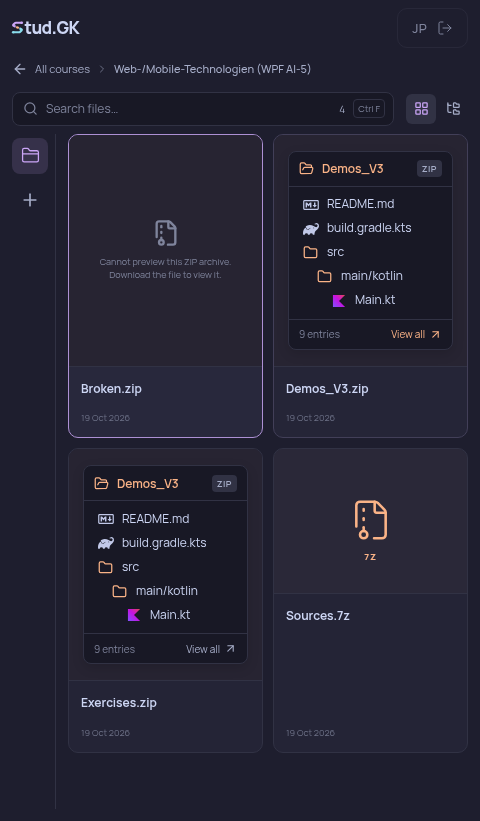
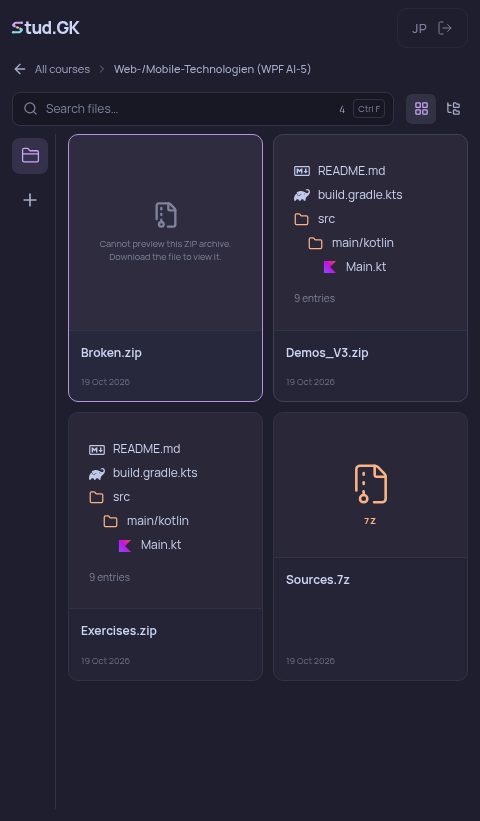
Remove nested panel from archive previews

diff --git a/src/styles.css b/src/styles.css
@@ -1722,43 +1722,17 @@ input::placeholder {
 .file-preview.archive-preview {
   align-items: stretch;
   justify-content: center;
-  padding: 14px;
-  min-height: 232px;
+  gap: 12px;
+  padding: 20px;
+  min-height: 196px;
   overflow: hidden;
-  background: color-mix(in srgb, var(--peach) 4%, var(--base));
 }
-.archive-preview-window {
-  width: 100%;
-  max-width: 360px;
-  margin: auto;
-  overflow: hidden;
-  border: 1px solid var(--surface0);
-  border-radius: 8px;
-  background: var(--mantle);
-  box-shadow: 0 4px 12px #0002;
-}
-.archive-preview-heading {
-  display: flex;
-  align-items: center;
-  gap: 8px;
-  height: 35px;
-  padding: 0 10px;
-  border-bottom: 1px solid var(--surface0);
-  color: var(--peach);
-  font-size: 12px;
-  font-weight: 600;
-}
-.archive-preview-heading > svg { flex-shrink: 0; }
-.archive-preview-heading > span:first-of-type { overflow: hidden; text-overflow: ellipsis; white-space: nowrap; }
-.archive-preview-badge { margin-left: auto; padding: 2px 5px; border-radius: 4px; background: var(--surface0); color: var(--subtext); font-size: 9px; letter-spacing: .5px; }
-.archive-preview-entries { padding: 6px; min-height: 132px; }
+.archive-preview-entries { min-width: 0; }
 .archive-preview-entry { display: flex; align-items: center; gap: 8px; height: 24px; min-width: 0; color: var(--text); font-size: 12px; line-height: 1.4; }
 .archive-preview-entry-icon { display: flex; align-items: center; flex: 0 0 16px; width: 16px; color: var(--subtext); }
 .archive-preview-entry-icon .gitlab-file-icon { width: 16px; height: 16px; }
 .archive-preview-folder .archive-preview-entry-icon { color: var(--peach); }
 .archive-preview-name { overflow: hidden; text-overflow: ellipsis; white-space: nowrap; }
-.archive-preview-empty { display: block; padding: 12px 8px; color: var(--muted); font-size: 12px; }
-.archive-preview-footer { display: flex; align-items: center; justify-content: space-between; gap: 8px; height: 30px; padding: 0 10px; border-top: 1px solid var(--surface0); color: var(--muted); font-size: 10px; }
-.archive-preview-open { display: flex; align-items: center; gap: 4px; color: var(--subtext); }
-.file-card-link:hover .archive-preview-open { color: var(--peach); }
+.archive-preview-empty { display: block; color: var(--muted); font-size: 12px; }
+.archive-preview-count { color: var(--muted); font-size: 10px; }
 .archive-preview > .thumbnail-loading, .archive-preview > .thumbnail-fallback { margin: auto; }

diff --git a/src/ArchiveThumbnail.tsx b/src/ArchiveThumbnail.tsx
@@ -1,4 +1,4 @@
-import { ArrowUpRight, FileArchive, Folder, FolderOpen, LoaderCircle } from "lucide-solid";
+import { FileArchive, Folder, LoaderCircle } from "lucide-solid";
 import { createMemo, createResource, createSignal, For, onCleanup, onMount, Show } from "solid-js";
 import { archiveTree } from "./archive-tree";
 import { RepositoryFileIcon } from "./RepositoryFileIcon";
@@ -29,16 +29,11 @@ export function ArchiveThumbnail(props: { id: string; version: string }) {
         <Show when={contents()} fallback={<LoaderCircle class="thumbnail-loading spin" size={20} aria-label="Loading archive contents" />}>
           {(listing) => {
             const tree = createMemo(() => archiveTree(listing()));
-            return <div class="archive-preview-window">
-              <div class="archive-preview-heading">
-                <FolderOpen size={15} aria-hidden="true" />
-                <span title={tree().folder}>{tree().folder || "Archive contents"}</span>
-                <span class="archive-preview-badge">ZIP</span>
-              </div>
+            return <>
               <div class="archive-preview-entries">
                 <For each={tree().rows}>{(entry) => (
                   <div class="archive-preview-entry" classList={{ "archive-preview-folder": entry.directory }} title={entry.path}
-                    style={{ "padding-left": `${8 + Math.min(entry.depth, 3) * 14}px` }}>
+                    style={{ "padding-left": `${Math.min(entry.depth, 3) * 14}px` }}>
                     <span class="archive-preview-entry-icon">
                       {entry.directory ? <Folder size={15} /> : <RepositoryFileIcon name={entry.name} />}
                     </span>
@@ -47,11 +42,8 @@ export function ArchiveThumbnail(props: { id: string; version: string }) {
                 )}</For>
                 <Show when={!listing().entries.length}><span class="archive-preview-empty">Empty archive</span></Show>
               </div>
-              <div class="archive-preview-footer">
-                <span>{listing().total} entries</span>
-                <span class="archive-preview-open">View all <ArrowUpRight size={13} aria-hidden="true" /></span>
-              </div>
-            </div>;
+              <span class="archive-preview-count">{listing().total} entries</span>
+            </>;
           }}
         </Show>
       </Show>

diff --git a/docs/pr-screenshots/archive-preview/README.md b/docs/pr-screenshots/archive-preview/README.md
@@ -2,7 +2,7 @@
 
 Screenshots use a local fixture account and the small ZIP in `scripts/fixtures/archive-preview.zip`. No university credentials or course materials are included.
 
-- `cards.png`: compact file trees in course cards, a damaged archive, and the existing icon for an unsupported archive format. Common enclosing folders appear once in the header, folder chains collapse, and files use their language icons.
+- `cards.png`: compact file trees in course cards, a damaged archive, and the existing icon for an unsupported archive format. File trees sit directly on the preview background, with no inner panel, header, or footer. Common enclosing folders are omitted, folder chains collapse, and files use their language icons.
 - `narrow.png`: course cards at 480 px.
 - `contents.png`: the complete archive listing and download action.
 - `contents-narrow.png`: the listing at 480 px.
